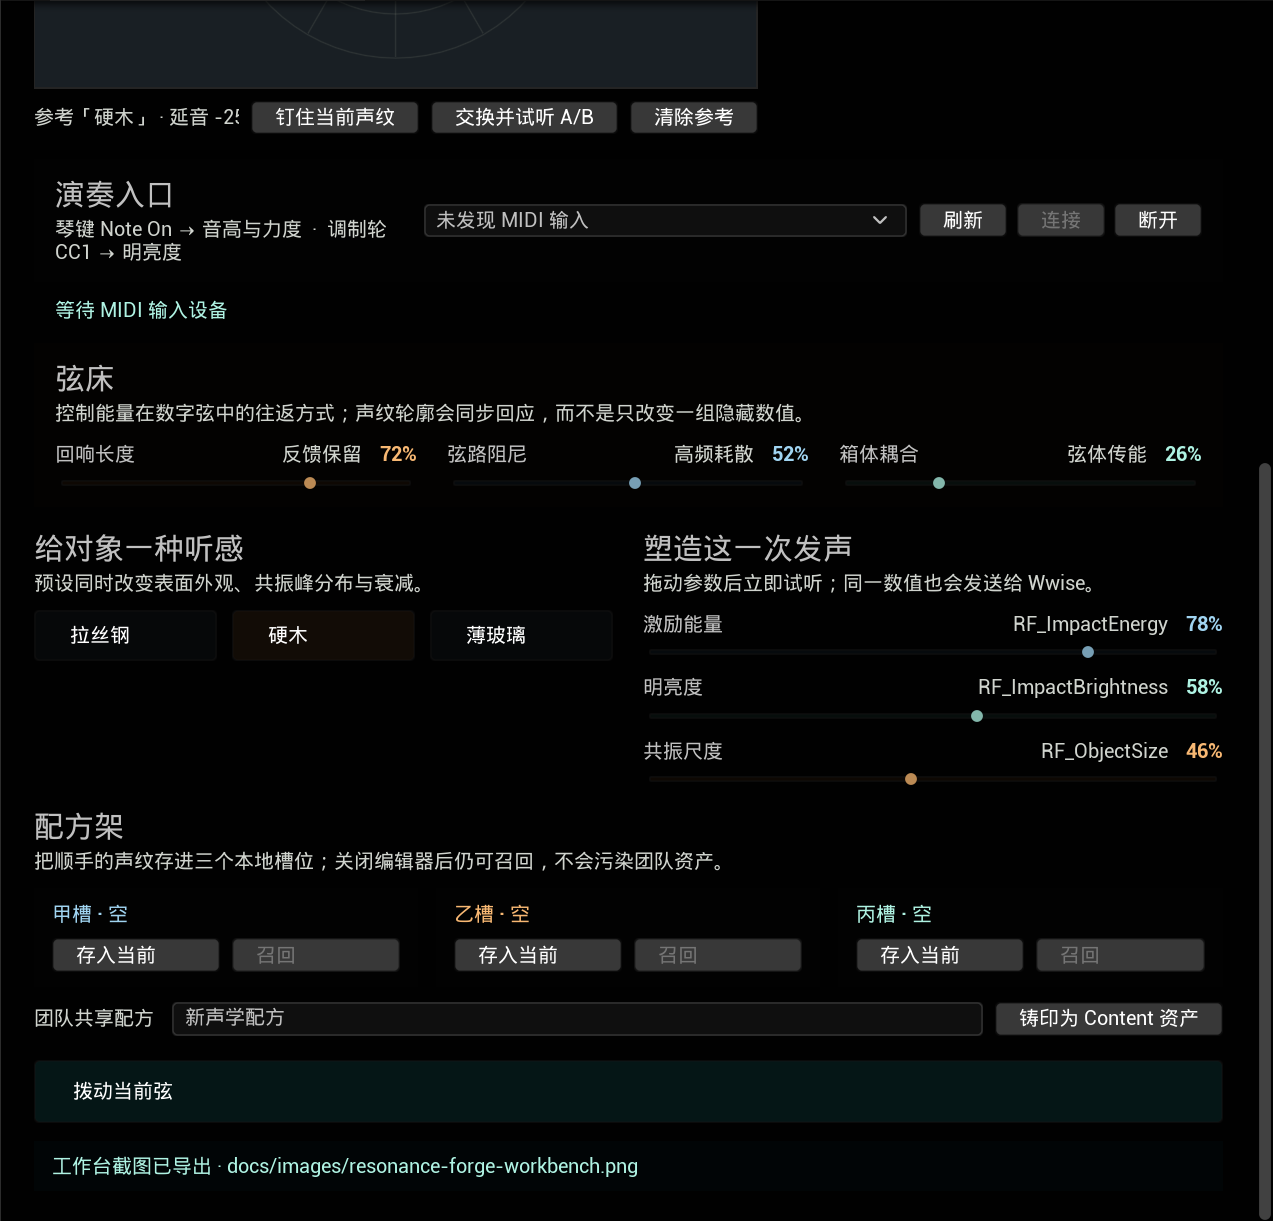
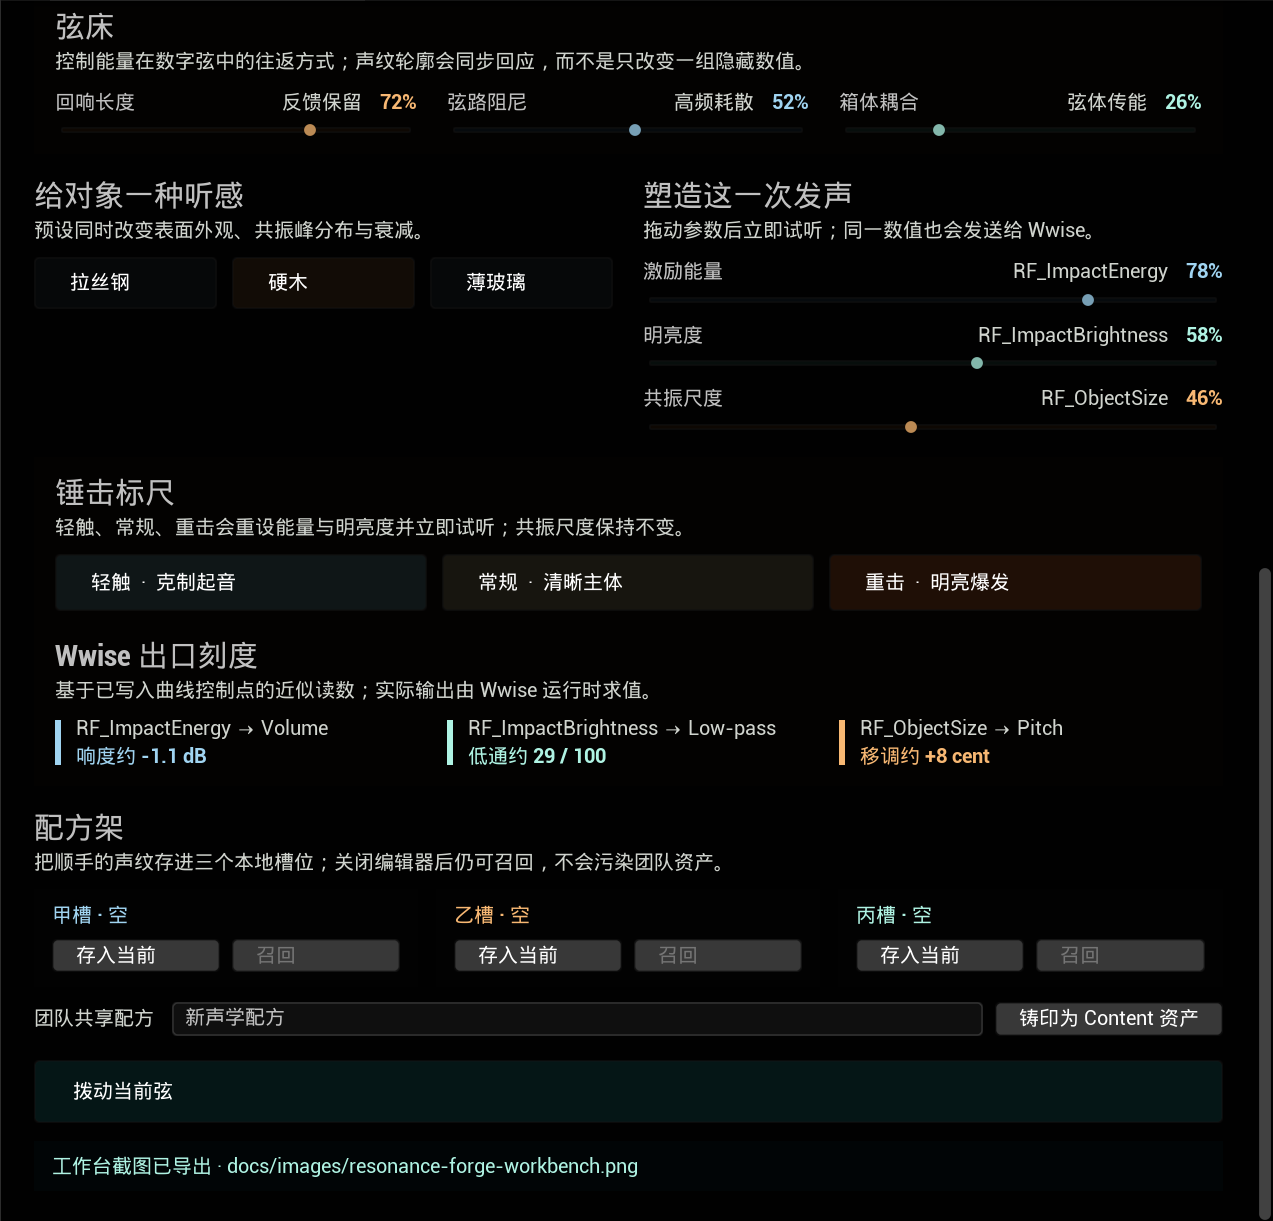
加入锤击标尺与 Wwise 出口刻度

diff --git a/Source/ResonanceForgeEditor/Private/ResonanceForgeEditorModule.cpp b/Source/ResonanceForgeEditor/Private/ResonanceForgeEditorModule.cpp
@@ -49,6 +49,12 @@ namespace ResonanceForgeEditor
     static constexpr float WaveguideDecayMin = 0.9700f;
     static constexpr float WaveguideDecayMax = 0.9995f;
 
+    float SmoothCurve(const float Alpha)
+    {
+        const float T = FMath::Clamp(Alpha, 0.0f, 1.0f);
+        return T * T * (3.0f - 2.0f * T);
+    }
+
     TSharedRef<SWidget> WorkspaceTitle(const FText& Title, const FText& Detail)
     {
         return SNew(SVerticalBox)
@@ -355,6 +361,33 @@ FReply FResonanceForgeEditorModule::TriggerPreview()
     else
     {
         LastStatus = NSLOCTEXT("ResonanceForge", "PreviewMissing", "无法预听 · 场景中没有可用的共振体");
+    }
+    return FReply::Handled();
+}
+
+FReply FResonanceForgeEditorModule::TriggerStrikePreset(
+    const float Energy,
+    const float Brightness,
+    const FText& GestureName)
+{
+    PreviewEnergy = FMath::Clamp(Energy, 0.0f, 1.0f);
+    PreviewBrightness = FMath::Clamp(Brightness, 0.0f, 1.0f);
+
+    if (AResonanceForgeImpactInstrumentActor* Instrument = ResolveInstrument())
+    {
+        Instrument->ObjectSize = PreviewSize;
+        ApplyWaveguideParameters();
+        Instrument->TriggerInstrument(PreviewEnergy, PreviewBrightness, 60);
+        LastStatus = FText::Format(
+            NSLOCTEXT("ResonanceForge", "StrikePresetTriggered", "{0}已触发 · {1} / {2} / {3}"),
+            GestureName,
+            GetWwiseVolumeText(),
+            GetWwiseLowpassText(),
+            GetWwisePitchText());
+    }
+    else
+    {
+        LastStatus = NSLOCTEXT("ResonanceForge", "StrikePresetMissing", "无法试听锤击标尺 · 请先打开试听场景");
     }
     return FReply::Handled();
 }
@@ -695,6 +728,51 @@ FText FResonanceForgeEditorModule::GetWwiseStatusText() const
         : FText::FromString(Status);
 }
 
+FText FResonanceForgeEditorModule::GetWwiseVolumeText() const
+{
+    const float Energy = FMath::Clamp(PreviewEnergy, 0.0f, 1.0f);
+    float VolumeDb = 0.0f;
+    if (Energy <= 0.20f)
+    {
+        const float T = Energy / 0.20f;
+        VolumeDb = FMath::Lerp(-24.0f, -12.0f, T * T);
+    }
+    else if (Energy <= 0.55f)
+    {
+        VolumeDb = FMath::Lerp(-12.0f, -4.0f, ResonanceForgeEditor::SmoothCurve((Energy - 0.20f) / 0.35f));
+    }
+    else
+    {
+        VolumeDb = FMath::Lerp(-4.0f, 0.0f, FMath::Sqrt((Energy - 0.55f) / 0.45f));
+    }
+    return FText::FromString(FString::Printf(TEXT("响度约 %.1f dB"), VolumeDb));
+}
+
+FText FResonanceForgeEditorModule::GetWwiseLowpassText() const
+{
+    const float Brightness = FMath::Clamp(PreviewBrightness, 0.0f, 1.0f);
+    float Lowpass = 0.0f;
+    if (Brightness <= 0.45f)
+    {
+        const float T = Brightness / 0.45f;
+        Lowpass = FMath::Lerp(82.0f, 34.0f, FMath::Pow(T, 0.25f));
+    }
+    else
+    {
+        Lowpass = FMath::Lerp(34.0f, 0.0f, ResonanceForgeEditor::SmoothCurve((Brightness - 0.45f) / 0.55f));
+    }
+    return FText::FromString(FString::Printf(TEXT("低通约 %.0f / 100"), Lowpass));
+}
+
+FText FResonanceForgeEditorModule::GetWwisePitchText() const
+{
+    const float Size = FMath::Clamp(PreviewSize, 0.0f, 1.0f);
+    const float PitchCent = Size <= 0.50f
+        ? FMath::Lerp(420.0f, 0.0f, ResonanceForgeEditor::SmoothCurve(Size / 0.50f))
+        : FMath::Lerp(0.0f, -520.0f, ResonanceForgeEditor::SmoothCurve((Size - 0.50f) / 0.50f));
+    return FText::FromString(FString::Printf(TEXT("移调约 %+.0f cent"), PitchCent));
+}
+
 FReply FResonanceForgeEditorModule::ForgeSharedRecipeAsset()
 {
     AResonanceForgeImpactInstrumentActor* Instrument = ResolveInstrument();
@@ -948,6 +1026,26 @@ TSharedRef<SDockTab> FResonanceForgeEditorModule::SpawnWorkbench(const FSpawnTab
             [
                 SNew(SSlider).Value_Lambda([Value]{ return *Value; }).OnValueChanged_Lambda([Value](float NewValue){ *Value = NewValue; })
                 .SliderBarColor(Color).SliderHandleColor(Color)
+            ];
+    };
+
+    auto OutputReading = [](const FText& Label, const TAttribute<FText>& Reading, const FLinearColor& Color)
+    {
+        return SNew(SHorizontalBox)
+            + SHorizontalBox::Slot().AutoWidth().Padding(0, 2, 10, 2)
+            [
+                SNew(SBorder)
+                .BorderImage(FAppStyle::GetBrush(TEXT("WhiteBrush")))
+                .BorderBackgroundColor(Color)
+                .Padding(FMargin(2, 0))
+            ]
+            + SHorizontalBox::Slot().FillWidth(1.0f)
+            [
+                SNew(SVerticalBox)
+                + SVerticalBox::Slot().AutoHeight()
+                [SNew(STextBlock).Text(Label).ColorAndOpacity(Muted)]
+                + SVerticalBox::Slot().AutoHeight().Padding(0, 3, 0, 0)
+                [SNew(STextBlock).Text(Reading).ColorAndOpacity(Color).Font(FAppStyle::GetFontStyle(TEXT("BoldFont")))]
             ];
     };
 
@@ -1207,6 +1305,58 @@ TSharedRef<SDockTab> FResonanceForgeEditorModule::SpawnWorkbench(const FSpawnTab
                             + SVerticalBox::Slot().AutoHeight().Padding(0, 12, 0, 0)[ParameterRow(NSLOCTEXT("ResonanceForge", "Energy", "激励能量"), FText::FromString(TEXT("RF_ImpactEnergy")), &PreviewEnergy, Steel)]
                             + SVerticalBox::Slot().AutoHeight().Padding(0, 12, 0, 0)[ParameterRow(NSLOCTEXT("ResonanceForge", "Brightness", "明亮度"), FText::FromString(TEXT("RF_ImpactBrightness")), &PreviewBrightness, Glass)]
                             + SVerticalBox::Slot().AutoHeight().Padding(0, 12, 0, 0)[ParameterRow(NSLOCTEXT("ResonanceForge", "Size", "共振尺度"), FText::FromString(TEXT("RF_ObjectSize")), &PreviewSize, Wood)]
+                        ]
+                    ]
+                    + SVerticalBox::Slot().AutoHeight().Padding(22, 4, 22, 12)
+                    [
+                        SNew(SBorder)
+                        .BorderImage(FAppStyle::GetBrush(TEXT("Brushes.Panel")))
+                        .BorderBackgroundColor(FLinearColor(0.050f, 0.032f, 0.018f, 1.0f))
+                        .Padding(FMargin(14, 12))
+                        [
+                            SNew(SVerticalBox)
+                            + SVerticalBox::Slot().AutoHeight()
+                            [WorkspaceTitle(NSLOCTEXT("ResonanceForge", "StrikeScale", "锤击标尺"), NSLOCTEXT("ResonanceForge", "StrikeScaleDetail", "轻触、常规、重击会重设能量与明亮度并立即试听；共振尺度保持不变。"))]
+                            + SVerticalBox::Slot().AutoHeight().Padding(0, 10, 0, 0)
+                            [
+                                SNew(SHorizontalBox)
+                                + SHorizontalBox::Slot().FillWidth(1.0f).Padding(0, 0, 5, 0)
+                                [
+                                    SNew(SButton)
+                                    .Text(NSLOCTEXT("ResonanceForge", "StrikeLight", "轻触  ·  克制起音"))
+                                    .ContentPadding(FMargin(12, 10))
+                                    .ButtonColorAndOpacity(FLinearColor(0.12f, 0.20f, 0.22f, 1.0f))
+                                    .OnClicked_Lambda([this]{ return TriggerStrikePreset(0.22f, 0.30f, NSLOCTEXT("ResonanceForge", "StrikeLightStatus", "轻触")); })
+                                ]
+                                + SHorizontalBox::Slot().FillWidth(1.0f).Padding(5, 0)
+                                [
+                                    SNew(SButton)
+                                    .Text(NSLOCTEXT("ResonanceForge", "StrikeRegular", "常规  ·  清晰主体"))
+                                    .ContentPadding(FMargin(12, 10))
+                                    .ButtonColorAndOpacity(FLinearColor(0.22f, 0.19f, 0.12f, 1.0f))
+                                    .OnClicked_Lambda([this]{ return TriggerStrikePreset(0.58f, 0.55f, NSLOCTEXT("ResonanceForge", "StrikeRegularStatus", "常规锤击")); })
+                                ]
+                                + SHorizontalBox::Slot().FillWidth(1.0f).Padding(5, 0, 0, 0)
+                                [
+                                    SNew(SButton)
+                                    .Text(NSLOCTEXT("ResonanceForge", "StrikeHeavy", "重击  ·  明亮爆发"))
+                                    .ContentPadding(FMargin(12, 10))
+                                    .ButtonColorAndOpacity(FLinearColor(0.34f, 0.12f, 0.045f, 1.0f))
+                                    .OnClicked_Lambda([this]{ return TriggerStrikePreset(0.92f, 0.80f, NSLOCTEXT("ResonanceForge", "StrikeHeavyStatus", "重击")); })
+                                ]
+                            ]
+                            + SVerticalBox::Slot().AutoHeight().Padding(0, 18, 0, 0)
+                            [WorkspaceTitle(NSLOCTEXT("ResonanceForge", "WwiseOutputScale", "Wwise 出口刻度"), NSLOCTEXT("ResonanceForge", "WwiseOutputScaleDetail", "基于已写入曲线控制点的近似读数；实际输出由 Wwise 运行时求值。"))]
+                            + SVerticalBox::Slot().AutoHeight().Padding(0, 10, 0, 0)
+                            [
+                                SNew(SHorizontalBox)
+                                + SHorizontalBox::Slot().FillWidth(1.0f).Padding(0, 0, 10, 0)
+                                [OutputReading(NSLOCTEXT("ResonanceForge", "WwiseVolumeLabel", "RF_ImpactEnergy → Volume"), TAttribute<FText>::CreateRaw(this, &FResonanceForgeEditorModule::GetWwiseVolumeText), Steel)]
+                                + SHorizontalBox::Slot().FillWidth(1.0f).Padding(10, 0)
+                                [OutputReading(NSLOCTEXT("ResonanceForge", "WwiseLowpassLabel", "RF_ImpactBrightness → Low-pass"), TAttribute<FText>::CreateRaw(this, &FResonanceForgeEditorModule::GetWwiseLowpassText), Glass)]
+                                + SHorizontalBox::Slot().FillWidth(1.0f).Padding(10, 0, 0, 0)
+                                [OutputReading(NSLOCTEXT("ResonanceForge", "WwisePitchLabel", "RF_ObjectSize → Pitch"), TAttribute<FText>::CreateRaw(this, &FResonanceForgeEditorModule::GetWwisePitchText), Wood)]
+                            ]
                         ]
                     ]
                     + SVerticalBox::Slot().AutoHeight().Padding(22, 4, 22, 12)

diff --git a/Source/ResonanceForgeEditor/Public/ResonanceForgeEditorModule.h b/Source/ResonanceForgeEditor/Public/ResonanceForgeEditorModule.h
@@ -19,6 +19,7 @@ private:
     void ApplyWaveguideParameters();
     FReply SyncFromSelection();
     FReply TriggerPreview();
+    FReply TriggerStrikePreset(float Energy, float Brightness, const FText& GestureName);
     FReply PinReference();
     FReply SwapAndPreviewReference();
     FReply ClearReference();
@@ -41,6 +42,9 @@ private:
     FText GetRecipeSlotText(int32 SlotIndex) const;
     FText GetMidiStatusText() const;
     FText GetWwiseStatusText() const;
+    FText GetWwiseVolumeText() const;
+    FText GetWwiseLowpassText() const;
+    FText GetWwisePitchText() const;
     bool HasRecipeSlot(int32 SlotIndex) const;
     bool ReadRecipeSlot(int32 SlotIndex, FName& OutPreset, EResonanceModelType& OutModel, float& OutEnergy, float& OutBrightness, float& OutSize, float& OutSustain, float& OutDamping, float& OutCoupling) const;
 

diff --git a/docs/演示与截图指南.md b/docs/演示与截图指南.md
@@ -6,16 +6,17 @@
 2. 通过“窗口 → 音频工具”打开“共振铸造台 · 材质声源工作台”，停靠在右侧。
 3. 在场景中选择拉丝钢、硬木或薄玻璃共振体，点击“读取当前选择”，展示顶部对象状态与声源配方同步变化。
 4. 在插件中切换材质预设，说明视觉材质与模态共振预设是同一次操作。
-5. 调节撞击能量、音色明亮度、共振体尺寸，观察“声纹炉膛”的轮廓随参数变化。
-6. 点击“钉住当前声纹”，再切换硬木或薄玻璃；紫色参考轮廓保留，底部显示能量、明亮度与尺度差值。
-7. 点击“交换并试听 A/B”，在当前版本和紫色参考之间往返切换；每次交换都会立即试听切换后的版本。
-8. 把其中一版存入“甲槽”，切换模型或材质后再召回，展示模型、材质和三项参数同步恢复。
-9. 选择右侧数字波导弦，读取选择后切换到“数字波导弦”；“弦床”出现，声纹形态和主按钮随上下文变化。
-10. 分别调整回响长度、弦路阻尼和箱体耦合，展示声纹轮廓实时变化；把其中一版钉为参考后进行 A/B 试听。
-11. 有 MIDI 键盘时，在“演奏入口”刷新并连接设备；演奏一个音符并推动调制轮，展示 Note、Velocity 与 CC1 实时状态。
-12. 选择数字波导弦，展示面板读取“长尾木弦”；Content 浏览器定位随仓库生成的 `DA_RF_LongTailWoodString`。也可以另存一个中文命名变体演示铸印流程。
-13. 点击 PIE：三颗球从不同高度落下，撞击时分别出现蓝、橙、青反馈光。
-14. 若同时打开 Wwise Profiler，展示三个 RTPC 随撞击参数更新。
+5. 依次点击“轻触 / 常规 / 重击”，先用锤击标尺建立可听的力度参照；指出下方出口刻度同步显示近似的 dB、Low-pass 与 cent。
+6. 再细调撞击能量、音色明亮度、共振体尺寸，观察“声纹炉膛”和 Wwise 出口刻度同时变化。
+7. 点击“钉住当前声纹”，再切换硬木或薄玻璃；紫色参考轮廓保留，底部显示能量、明亮度与尺度差值。
+8. 点击“交换并试听 A/B”，在当前版本和紫色参考之间往返切换；每次交换都会立即试听切换后的版本。
+9. 把其中一版存入“甲槽”，切换模型或材质后再召回，展示模型、材质和三项参数同步恢复。
+10. 选择右侧数字波导弦，读取选择后切换到“数字波导弦”；“弦床”出现，声纹形态和主按钮随上下文变化。
+11. 分别调整回响长度、弦路阻尼和箱体耦合，展示声纹轮廓实时变化；把其中一版钉为参考后进行 A/B 试听。
+12. 有 MIDI 键盘时，在“演奏入口”刷新并连接设备；演奏一个音符并推动调制轮，展示 Note、Velocity 与 CC1 实时状态。
+13. 选择数字波导弦，展示面板读取“长尾木弦”；Content 浏览器定位随仓库生成的 `DA_RF_LongTailWoodString`。也可以另存一个中文命名变体演示铸印流程。
+14. 点击 PIE：三颗球从不同高度落下，撞击时分别出现蓝、橙、青反馈光。
+15. 若同时打开 Wwise Profiler，展示三个 RTPC 随撞击参数更新。
 
 ## 建议截图
 
@@ -26,7 +27,7 @@
 
 ### 02 插件全貌
 
-- 插件独立放大，完整显示声源配方、声纹炉膛、模型选择、材质预设、三个 RTPC 滑杆和状态条。
+- 插件独立放大，主图显示声音配方与声纹炉膛，细节图显示材质预设、锤击标尺、Wwise 出口刻度和配方架。
 - 用于说明这是可操作的 UE 编辑器插件，而不是单纯 Demo 场景。
 
 ### 03 场景 + 插件联动
@@ -69,6 +70,11 @@
 - 面板显示“长尾木弦”，Content 浏览器显示实际挂载的 `DA_RF_LongTailWoodString`。
 - 用于说明作品不只是一次性 Demo：调音结果可以变成项目资产并参与团队版本控制。
 
+### 11 锤击标尺与 Wwise 出口刻度
+
+- 让轻触、常规、重击三个手势与三列输出读数同时出现。
+- 用于解释 RTPC 不只是工程名词：能量对应响度、明亮度对应低通、尺度对应移调。面板数值是按控制点计算的近似读数，Wwise Profiler 仍是运行时证据。
+
 实际提交作品集时保留 3～4 张即可：主视觉、插件全貌或 A/B 声纹、场景联动、Wwise 参数证据。无需为这个工具单独录制视频。
 
 ## 自动导出插件工作台
@@ -104,3 +110,4 @@ docs/images/resonance-forge-workbench-details.png
 - 三种材质必须同时可辨，不能只靠标签区分。
 - 至少一张图同时出现演示场景和插件界面。
 - 至少一张图包含 Wwise Event / RTPC 的真实名称。
+- 细节图中的出口刻度须清晰可读，并保留“近似读数”的说明。

diff --git a/README.md b/README.md
@@ -8,7 +8,7 @@
 ![Unreal Engine 5.8](https://img.shields.io/badge/Unreal_Engine-5.8.1-0E1128?logo=unrealengine&logoColor=white)
 ![Wwise 2025.1](https://img.shields.io/badge/Wwise-2025.1-00549F)
 ![Platform](https://img.shields.io/badge/Platform-Windows_Editor-0078D4?logo=windows&logoColor=white)
-![Version](https://img.shields.io/badge/Version-0.10.0-D96B2B)
+![Version](https://img.shields.io/badge/Version-0.11.0-D96B2B)
 ![License](https://img.shields.io/badge/License-MIT-2EA44F)
 
 </div>
@@ -23,7 +23,7 @@
 
 ![共振铸造台工作台主视图](docs/images/resonance-forge-workbench.png)
 
-第二张呈现数字波导弦的“弦床”、材质听感、RTPC 塑形、本地配方槽与团队 Content 资产铸印。
+第二张呈现数字波导弦的“弦床”、材质听感、三档锤击标尺、Wwise 出口刻度、本地配方槽与团队 Content 资产铸印。
 
 ![共振铸造台弦床与配方架](docs/images/resonance-forge-workbench-details.png)
 
@@ -32,6 +32,7 @@
 - **两类实时物理声源**：模态撞击体与八复音数字波导弦。
 - **真实场景输入**：碰撞冲量、相对速度和物体尺寸直接影响声音。
 - **UE × Wwise 双路径**：UE 原生合成可独立试听，同时发布 Wwise Event 与 3 个 RTPC。
+- **锤击标尺与出口刻度**：轻触、常规、重击三档手势一键试听，并把 RTPC 曲线翻译成近似的 dB、低通与 cent 读数。
 - **可演奏**：面板可发现并连接 MIDI 输入设备；Note On 控制音高与力度，CC1 控制音色明亮度，并显示实时演奏状态。
 - **声纹炉膛**：用随模型、材质与演奏参数实时变化的声学指纹理解声音，而不是只看抽象滑杆。
 - **A/B 声纹比较**：钉住一次参考声纹，再更换材质或参数；“交换并试听 A/B”可在两个版本间往返切换。
@@ -114,14 +115,15 @@ flowchart LR
 2. 在场景中选择钢、木、玻璃砧座或数字波导弦。
 3. 点击“读取当前选择”。
 4. 选择共振模型和材质预设。
-5. 调整激励能量、明亮度与共振尺度，观察“声纹炉膛”的轮廓变化。
-6. 点击“钉住当前声纹”，再切换材质或参数，比较紫色参考轮廓与当前声纹。
-7. 点击“交换并试听 A/B”在两版之间往返切换；每次交换都会立即触发当前版本。
-8. 使用“配方架”把满意的版本存入甲、乙或丙槽，需要时一键召回到当前对象。
-9. 有 MIDI 键盘时，在“演奏入口”选择设备并点击“连接”；弹奏键盘或推动调制轮观察 Note、Velocity 与 CC1。
-10. 切换到“数字波导弦”，调节弦床中的回响长度、弦路阻尼和箱体耦合，观察声纹与听感同步变化。
-11. 为满意版本输入名称，点击“铸印为 Content 资产”，将它转成团队可复用的正式配方。
-12. 进入 PIE，观察落球碰撞并在 Wwise Profiler 中检查 RTPC。
+5. 先点“轻触 / 常规 / 重击”建立力度参照；每一档都会立即试听，并在“Wwise 出口刻度”显示近似的响度、低通和移调结果。
+6. 再细调激励能量、明亮度与共振尺度，观察声纹轮廓和出口刻度同步变化。
+7. 点击“钉住当前声纹”，再切换材质或参数，比较紫色参考轮廓与当前声纹。
+8. 点击“交换并试听 A/B”在两版之间往返切换；每次交换都会立即触发当前版本。
+9. 使用“配方架”把满意的版本存入甲、乙或丙槽，需要时一键召回到当前对象。
+10. 有 MIDI 键盘时，在“演奏入口”选择设备并点击“连接”；弹奏键盘或推动调制轮观察 Note、Velocity 与 CC1。
+11. 切换到“数字波导弦”，调节弦床中的回响长度、弦路阻尼和箱体耦合，观察声纹与听感同步变化。
+12. 为满意版本输入名称，点击“铸印为 Content 资产”，将它转成团队可复用的正式配方。
+13. 进入 PIE，观察落球碰撞并在 Wwise Profiler 中检查 RTPC。
 
 配方槽写入 Unreal 的本机工程用户设置，不会生成需要提交的团队资产；适合保存个人试听草案。需要团队共享的正式声学资产仍应使用 `UResonanceMaterialProfile`。
 
@@ -179,6 +181,8 @@ flowchart LR
 | `RF_ObjectSize` | 场景对象共振尺度 | Voice Pitch | `+420 → -520 cent` |
 
 曲线由 `scripts/provision_wwise_project.ps1` 通过 WAAPI 写入。脚本会先读取现有声音对象，并逐层核对 RTPC 与 Curve；配置相同时不重复导入 WAV，也不重建曲线 GUID。
+
+工作台中的“Wwise 出口刻度”按这些控制点近似显示当前 dB、Low-pass 与 cent，方便不打开 Authoring 时快速判断调音方向；最终值仍由 Wwise 运行时按实际曲线求值。
 
 ## MIDI 映射
 
